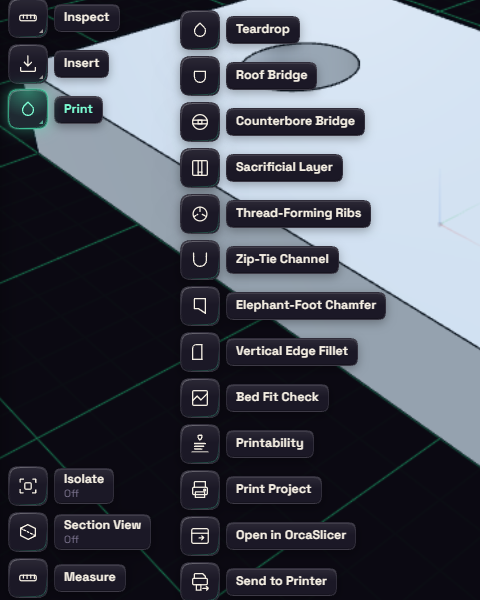
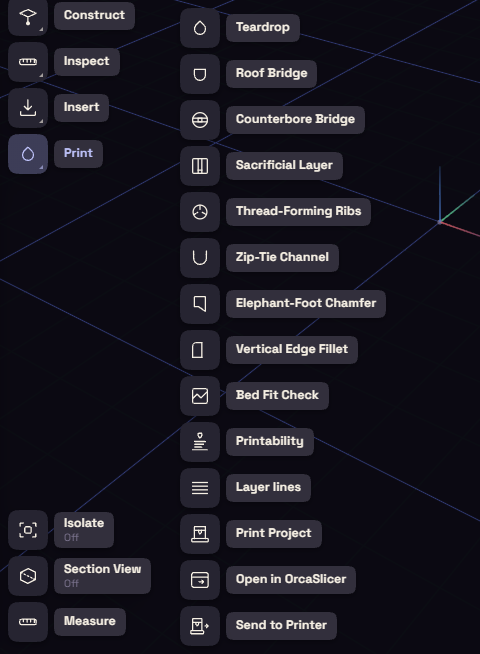
docs: The Print group picture lists Layer lines, the texture picture a knurled step

diff --git a/manual/docs/plugins/texture.md b/manual/docs/plugins/texture.md
@@ -15,7 +15,7 @@ Double-click the step in the History to change it later. Delete the step to get 
 
 ## Settings
 
-- **Kind**: patterns such as Knurl, Hex, Waves, Ribs, Brick, Carbon fibre, Voronoi, Perlin noise, Leather and Grip. Heightmap turns a picture into height, light is high.
+- **Kind** (Pattern in the History): patterns such as Knurl, Hex, Waves, Ribs, Brick, Carbon fibre, Voronoi, Perlin noise, Leather and Grip. Heightmap turns a picture into height, light is high.
 - **Depth** and **Scale**: the size of the pattern, 0.4 mm and 2 mm to start.
 - **Direction**: Out (emboss), In (deboss) or Both.
 - **Print color**: gives the pattern its own colour from the [palette](multicolor.md), for multicolour prints.
